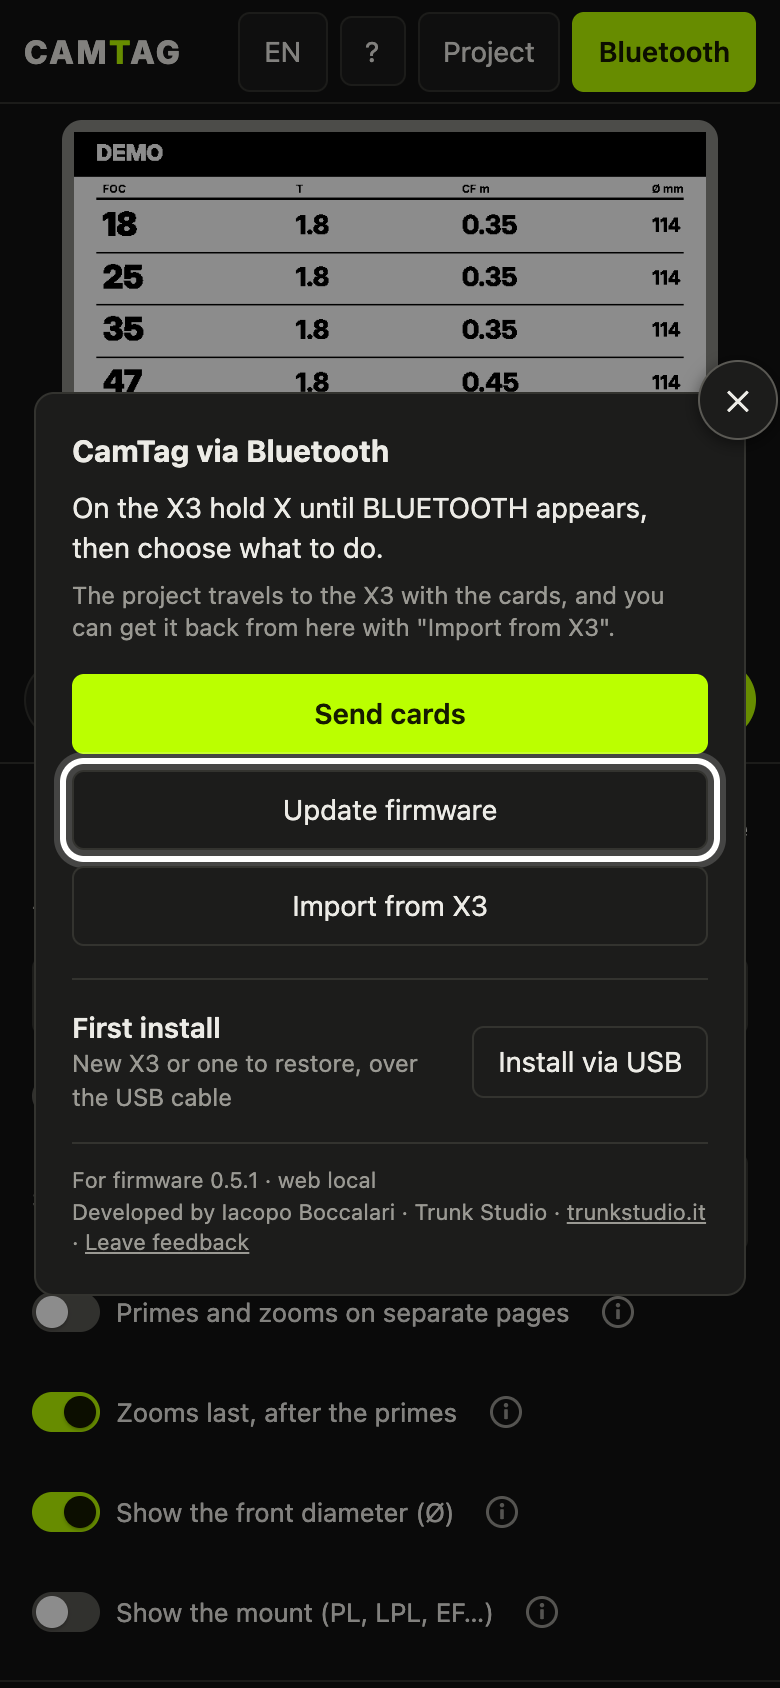
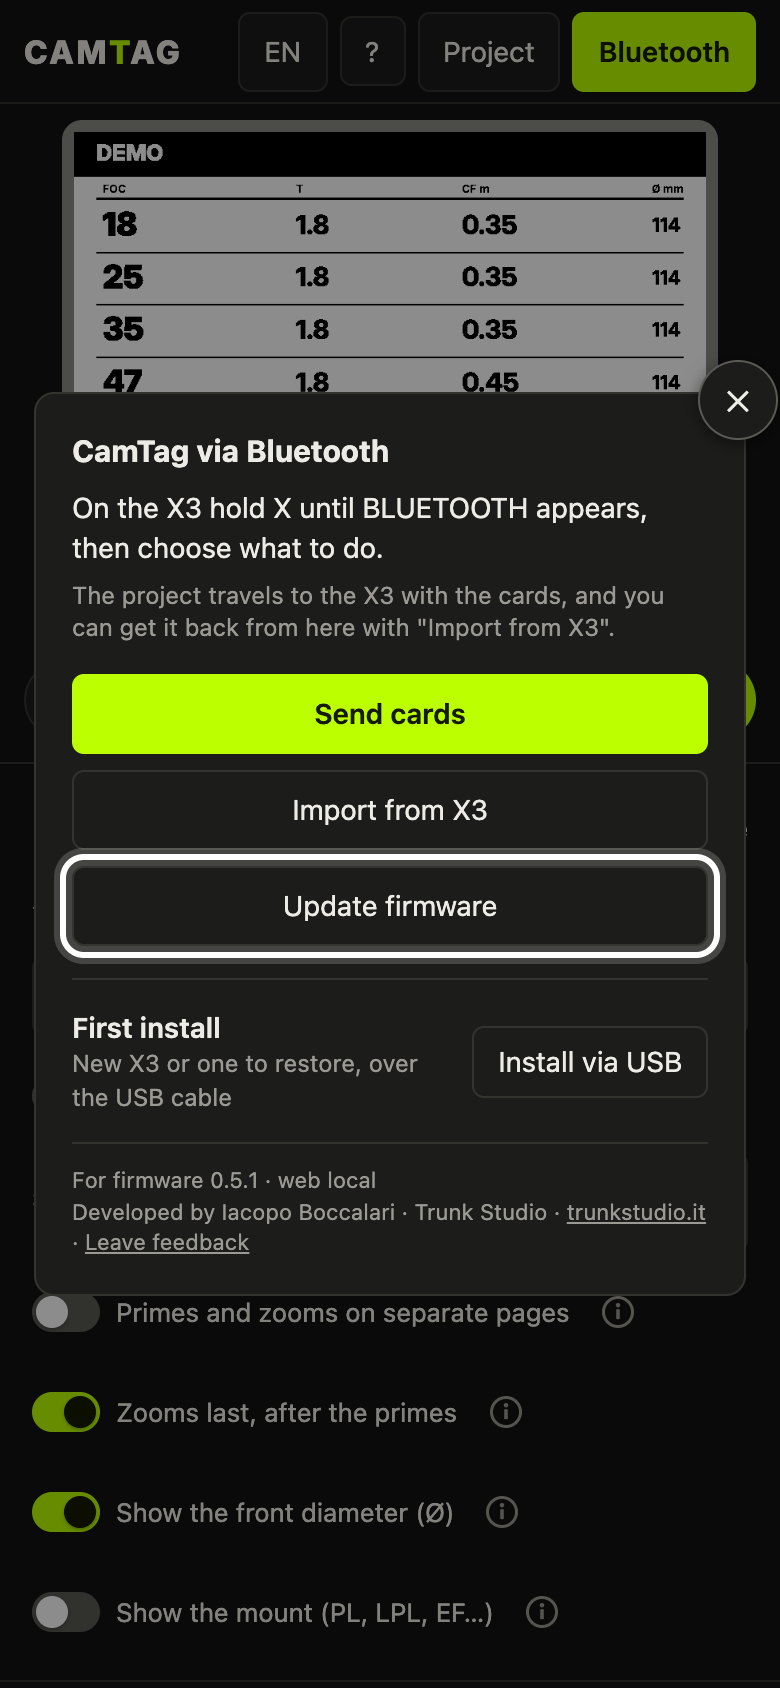
Finestra Bluetooth: Invia, Importa, poi Aggiorna firmware
Sul telefono l'aggiornamento del firmware, raro e delicato, va in fondo.
Immagini da telefono dei manuali rifatte.

Changed region(s): [[0.0615, 0.4313, 0.9538, 0.5853]]

diff --git a/companion/manuale/index.html b/companion/manuale/index.html
@@ -512,7 +512,7 @@
       <div class="phones">
         <figure class="phone"><div class="frame"><img src="phone-home.png" alt="Il configuratore web sul telefono, con il pulsante Bluetooth nella barra" width="780" height="1688" loading="lazy"></div>
           <figcaption>Tocca <strong>Bluetooth</strong> nella barra in alto.</figcaption></figure>
-        <figure class="phone"><div class="frame"><img src="phone-ble.png" alt="La finestra Bluetooth con Invia le card, Aggiorna firmware e Importa dall'X3" width="780" height="1688" loading="lazy"></div>
+        <figure class="phone"><div class="frame"><img src="phone-ble.png" alt="La finestra Bluetooth con Invia le card, Importa dall'X3 e Aggiorna firmware" width="780" height="1688" loading="lazy"></div>
           <figcaption>Poi <strong>Invia le card</strong>, e scegli il nome dell'X3.</figcaption></figure>
         <figure class="phone"><div class="frame"><img src="phone-send.png" alt="La finestra Bluetooth durante l'invio, con la barra di avanzamento" width="780" height="1688" loading="lazy"></div>
           <figcaption>La barra mostra a che punto è l'invio.</figcaption></figure>

diff --git a/companion/manual/index.html b/companion/manual/index.html
@@ -512,7 +512,7 @@
       <div class="phones">
         <figure class="phone"><div class="frame"><img src="phone-home.png" alt="The web configurator on a phone, with the Bluetooth button in the bar" width="780" height="1688" loading="lazy"></div>
           <figcaption>Tap <strong>Bluetooth</strong> in the top bar.</figcaption></figure>
-        <figure class="phone"><div class="frame"><img src="phone-ble.png" alt="The Bluetooth window with Send cards, Update firmware and Import from X3" width="780" height="1688" loading="lazy"></div>
+        <figure class="phone"><div class="frame"><img src="phone-ble.png" alt="The Bluetooth window with Send cards, Import from X3 and Update firmware" width="780" height="1688" loading="lazy"></div>
           <figcaption>Then <strong>Send cards</strong>, and choose the X3's name.</figcaption></figure>
         <figure class="phone"><div class="frame"><img src="phone-send.png" alt="The Bluetooth window while sending, with the progress bar" width="780" height="1688" loading="lazy"></div>
           <figcaption>The bar shows how far the transfer has got.</figcaption></figure>

diff --git a/companion/index.html b/companion/index.html
@@ -384,7 +384,9 @@
     .stagecol.full #previewMode { flex: 1; min-height: 0; justify-content: center; }
     .stagecol.full canvas#preview { cursor: auto; }
     #bleDlg .acts button { flex: 1 1 100%; }
-    #bleDlg .acts .primary { order: -1; }
+    /* In colonna: Invia, Importa, poi Aggiorna firmware (raro e delicato) in fondo. */
+    #bleDlg .acts .primary { order: -2; }
+    #bleDlg .acts #bleGet { order: -1; }
   }
   @media (max-width: 359px) { .bar h1 { display: none; } }
   /* Telefono orizzontale: resta fissa solo la barra. */
